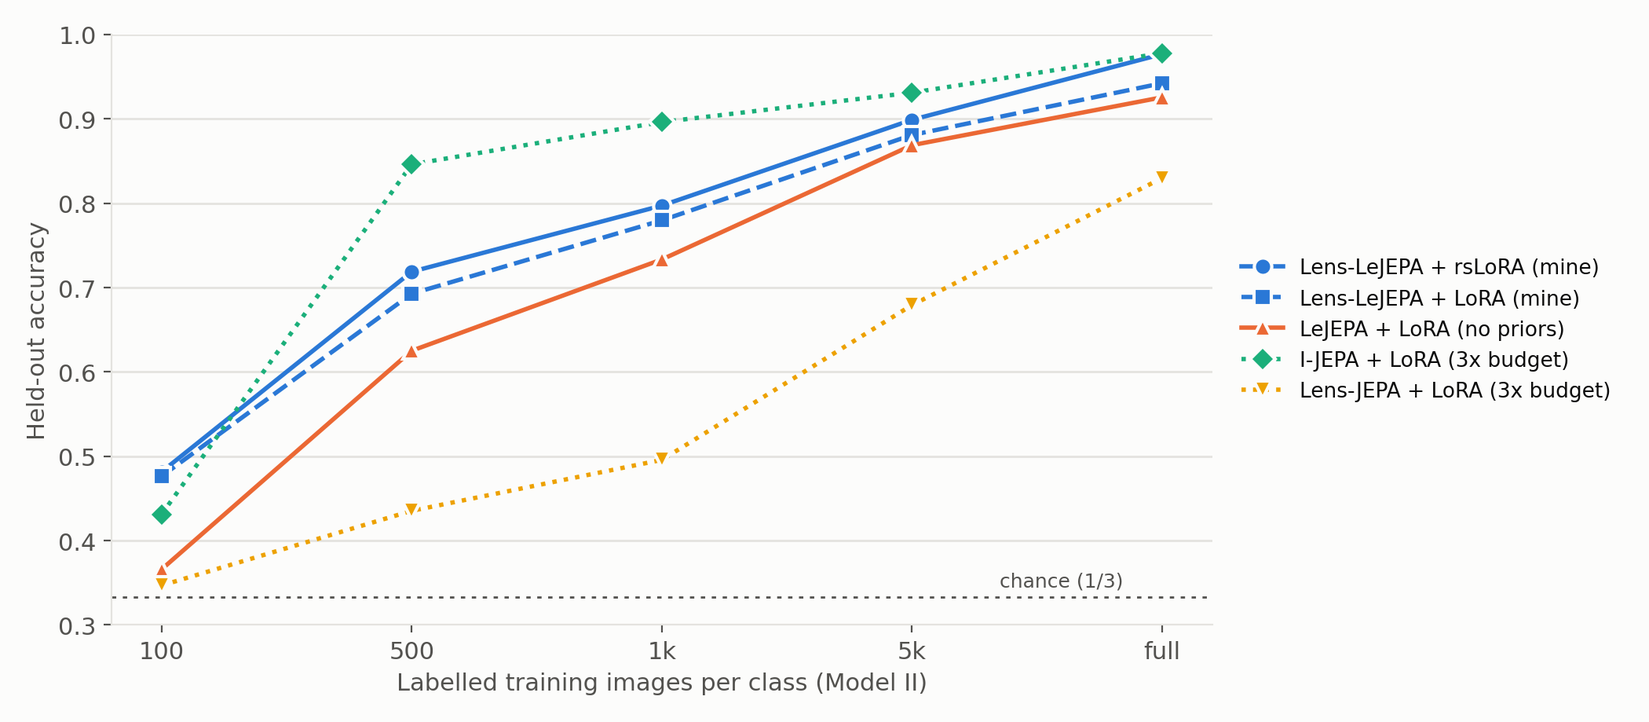
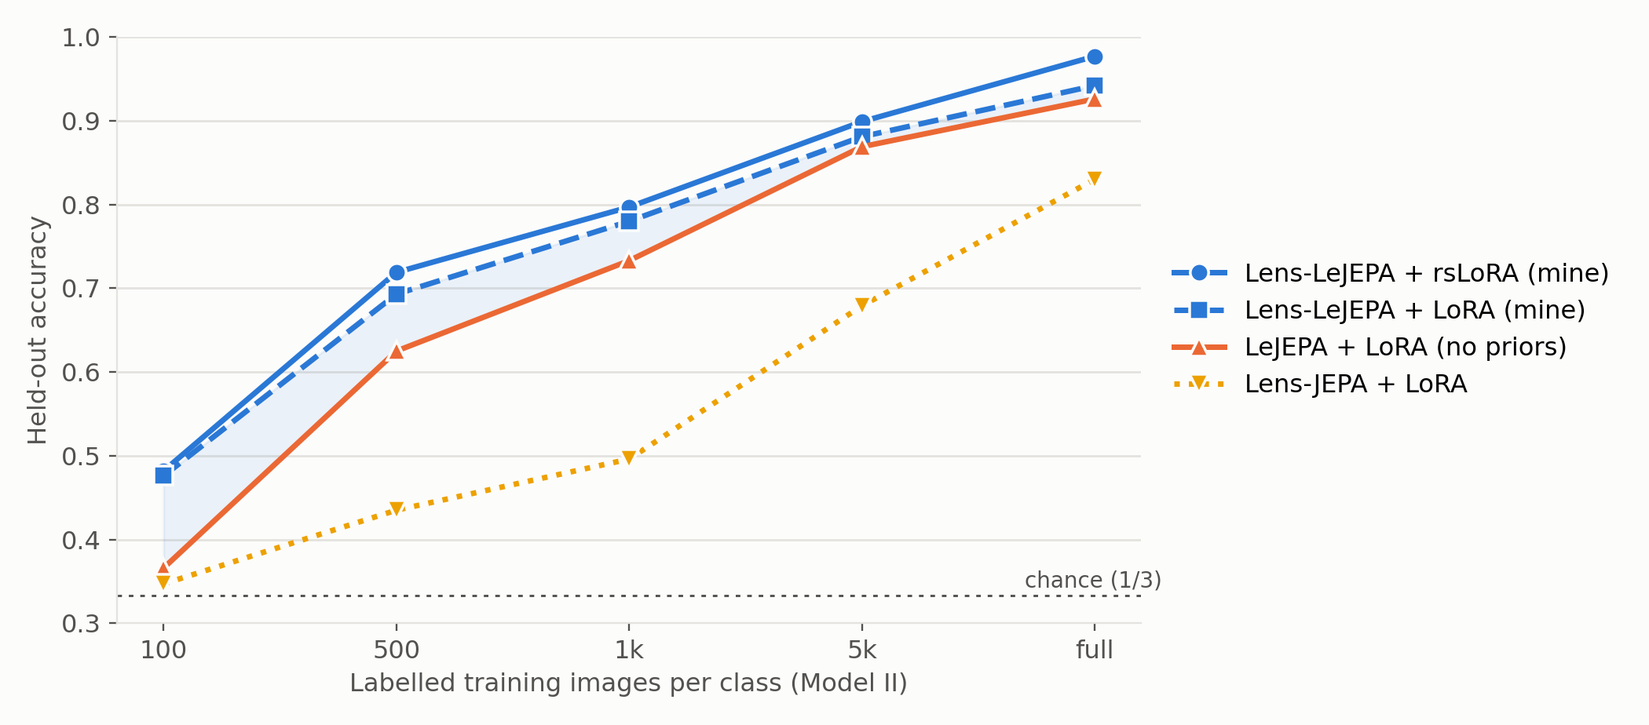
Focus results on Lens-LeJEPA's gains; remove t-SNE and robustness sections

diff --git a/index.html b/index.html
@@ -50,7 +50,7 @@
   <div class="kicker"><span class="dot"></span><span>Google Summer of Code 2026 · ML4SCI · DeepLense</span></div>
   <h1>Lens-LeJEPA: Self-Supervised Learning for Dark Matter Substructure</h1>
   <p class="lede">My Google Summer of Code 2026 project with ML4SCI DeepLense.</p>
-  <div class="post-meta"><span>Arnesh Batra</span><span>September 2026</span><span>24 min read</span></div>
+  <div class="post-meta"><span>Arnesh Batra</span><span>September 2026</span><span>14 min read</span></div>
 </header>
 
 <div class="hero"><img src="assets/img/hero.png" alt="Eight simulated strong lens images from the Model III test set, shown as glowing rings."></div>
@@ -122,7 +122,7 @@
 
 <p>I started by setting up a benchmark. I pretrained a few SSL methods on Model I for 300 epochs and tested them on Model II with 100, 500, 1,000, 5,000 or all labels per class. The methods were I-JEPA, Lens-JEPA (an earlier DeepLense model built on I-JEPA) and LeJEPA, a recent method that doesn't need a teacher network. For comparison I trained supervised models: ResNet18, ViT, ViT-SD, Lensiformer and LensPINN.</p>
 
-<p>With a frozen encoder and a single linear layer on top, the best SSL model only got 72% on full Model II data, while ResNet18 got 99.99%. The features had useful information, but a linear layer could not get it out. Switching to LoRA adapters fixed most of this (on I-JEPA, 0.600 went up to 0.978), so I used adapters for everything after that.</p>
+<p>With a frozen encoder and a single linear layer on top, the best SSL model only got 72% on full Model II data. The features had useful information, but a linear layer could not get it out. Switching to LoRA adapters fixed most of this (on I-JEPA, 0.600 went up to 0.978), so I used adapters for everything after that.</p>
 
 <h2 id="failed"><span class="num">04</span>What did not work</h2>
 
@@ -212,69 +212,64 @@
   <figcaption><b>Figure 4.</b> Average test accuracy over six settings (Model II with 100, 500, 1k, 5k and all labels, and Model III). rsLoRA was the best adapter in all six, and almost as good as full fine-tuning while training about 9× fewer parameters.</figcaption>
 </figure>
 
-<p>rsLoRA wasn't faster per training step than full fine-tuning (122 ms vs 102 ms), since gradients still pass through the whole network. The benefit is memory and storage: one shared encoder, and a small adapter for each task.</p>
+<p>The big benefit is storage: one shared encoder, and a small 2.36M-parameter adapter for each task.</p>
 
 <h2 id="results"><span class="num">07</span>Results</h2>
 
 <h3>Classification</h3>
 
 <figure>
-  <div class="frame"><img src="assets/img/chart_label_efficiency.png" alt="Test accuracy on Model II versus labels per class. Lens-LeJEPA is above LeJEPA at every budget; I-JEPA with 3x the training is highest between 500 and 5k labels."></div>
-  <figcaption><b>Figure 5.</b> Test accuracy on Model II as the number of labels grows. All models use a frozen encoder with a rank-32 adapter, so the gap between the blue and orange lines comes only from the two loss terms. I-JEPA and Lens-JEPA were trained 3× longer, so they are shown for reference.</figcaption>
+  <div class="frame"><img src="assets/img/chart_label_efficiency.png" alt="Test accuracy on Model II versus labels per class. Lens-LeJEPA is above LeJEPA and Lens-JEPA at every label budget."></div>
+  <figcaption><b>Figure 5.</b> Test accuracy on Model II as the number of labels grows. All models use a frozen encoder with a rank-32 adapter, so the shaded gap between the blue and orange lines comes only from the two lensing terms.</figcaption>
 </figure>
 
-<p>To measure the effect of the two terms, I compared Lens-LeJEPA and LeJEPA with the same adapter:</p>
+<p>To measure the effect of the two terms, I compared Lens-LeJEPA and LeJEPA with exactly the same adapter:</p>
 
 <div class="table-wrap">
 <table>
   <thead><tr><th>Model II accuracy</th><th>100</th><th>500</th><th>1k</th><th>5k</th><th>full</th><th>Model III</th></tr></thead>
   <tbody>
+    <tr><td>Lens-JEPA + LoRA</td><td>0.347</td><td>0.435</td><td>0.496</td><td>0.679</td><td>0.830</td><td>0.813</td></tr>
     <tr><td>LeJEPA + LoRA</td><td>0.366</td><td>0.625</td><td>0.733</td><td>0.869</td><td>0.926</td><td>0.922</td></tr>
     <tr class="mine"><td>Lens-LeJEPA + LoRA</td><td>0.476</td><td>0.693</td><td>0.780</td><td>0.881</td><td>0.942</td><td>0.945</td></tr>
-    <tr><td>Difference</td><td class="up">+11.0</td><td class="up">+6.8</td><td class="up">+4.6</td><td class="up">+1.2</td><td class="up">+1.7</td><td class="up">+2.4</td></tr>
-    <tr class="mine"><td>Lens-LeJEPA + rsLoRA</td><td>0.482</td><td>0.719</td><td>0.797</td><td>0.899</td><td>0.977</td><td>0.974</td></tr>
-    <tr><td>I-JEPA + LoRA (3× training)</td><td>0.431</td><td>0.846</td><td>0.896</td><td>0.931</td><td>0.978</td><td>0.991</td></tr>
-    <tr><td>Lens-JEPA + LoRA (3× training)</td><td>0.347</td><td>0.435</td><td>0.496</td><td>0.679</td><td>0.830</td><td>0.813</td></tr>
-    <tr><td>ResNet18 (supervised)</td><td>0.600</td><td>0.896</td><td>0.986</td><td>0.998</td><td>1.000</td><td>1.000</td></tr>
-    <tr><td>LensPINN (supervised)</td><td>0.910</td><td>0.984</td><td>0.995</td><td>0.999</td><td>1.000</td><td>1.000</td></tr>
+    <tr><td>Gain from the lensing terms</td><td class="up">+11.0</td><td class="up">+6.8</td><td class="up">+4.6</td><td class="up">+1.2</td><td class="up">+1.7</td><td class="up">+2.4</td></tr>
+    <tr class="mine"><td>Lens-LeJEPA + rsLoRA</td><td><strong>0.482</strong></td><td><strong>0.719</strong></td><td><strong>0.797</strong></td><td><strong>0.899</strong></td><td><strong>0.977</strong></td><td><strong>0.974</strong></td></tr>
   </tbody>
 </table>
 </div>
-<p class="table-caption">Table 3. Test accuracy by number of labelled images per class. The difference row is in accuracy points.</p>
+<p class="table-caption">Table 3. Test accuracy by number of labelled images per class. The gain row is in accuracy points.</p>
 
 <figure>
   <div class="frame"><img src="assets/img/analysis_gain.png" alt="Bar chart of the accuracy gain from the two lensing terms at each label budget: +11.0, +6.8, +4.6, +1.2, +1.7 points."></div>
-  <figcaption><b>Figure 6.</b> The same numbers as the difference row, as a chart: the gain is largest when labels are scarce.</figcaption>
+  <figcaption><b>Figure 6.</b> The gain row as a chart: the lensing terms help most when labels are scarce.</figcaption>
 </figure>
 
-<p>The two terms help at every label budget, and the gain is biggest when labels are scarce (+11 points with 100 labels per class). Lens-LeJEPA is 13 to 30 points ahead of Lens-JEPA, although Lens-JEPA is also a much smaller model. I-JEPA, which was trained for 3× longer, does better between 500 and 5,000 labels. The supervised models, LensPINN especially, are still the best on this simulated data.</p>
+<p>The two terms help at every label budget and on both datasets, and the gain is biggest exactly where self-supervised pretraining matters most: +11 points with only 100 labels per class. With rsLoRA the frozen encoder reaches 97.7% on Model II and 97.4% on Model III, and it is 13 to 30 points ahead of Lens-JEPA, the earlier DeepLense self-supervised model.</p>
 
-<p>Almost all the remaining mistakes are between axion and CDM, the two classes that both add small structure to the arc. The "no substructure" class is classified correctly every time by both models.</p>
+<p>The improvement is where it should be. The "no substructure" class is already classified correctly every time, so almost all of the gain comes from telling axion and CDM apart, the two classes that both add small structure to the arcs.</p>
 
 <figure>
   <div class="frame"><img src="assets/img/analysis_confusion.png" alt="Two confusion matrices on the Model II test set. Axion recall rises from 0.883 to 0.975 and CDM recall from 0.894 to 0.955; no-substructure is 1.000 for both."></div>
   <figcaption><b>Figure 7.</b> Confusion matrices on the full Model II test set, rows normalised. Going from LeJEPA + LoRA to Lens-LeJEPA + rsLoRA, axions mistaken for CDM drop from 11.7% to 2.5%.</figcaption>
 </figure>
 
-<h3>Do we even need an adapter?</h3>
+<h3>The features on their own</h3>
 
-<p>A natural question is how much of this comes from the pretrained features themselves, and how much from the adapter. To check, I froze each encoder completely and trained only a logistic regression on its average feature, choosing the regularisation on the validation set.</p>
+<p>How much of this comes from the pretrained features, and how much from the adapter? To check, I froze each encoder completely and trained only a logistic regression on its average feature, choosing the regularisation on the validation set.</p>
 
 <div class="table-wrap">
 <table>
-  <thead><tr><th>Model II accuracy</th><th>100</th><th>500</th><th>1k</th><th>5k</th><th>full</th></tr></thead>
+  <thead><tr><th>Frozen + linear classifier</th><th>100</th><th>500</th><th>1k</th><th>5k</th><th>full</th><th>Model III</th></tr></thead>
   <tbody>
-    <tr><td>LeJEPA, frozen + linear classifier</td><td>0.385</td><td>0.592</td><td>0.650</td><td>0.746</td><td>0.793</td></tr>
-    <tr class="mine"><td>Lens-LeJEPA, frozen + linear classifier</td><td>0.561</td><td>0.757</td><td>0.792</td><td>0.842</td><td>0.865</td></tr>
-    <tr><td>Lens-LeJEPA + rsLoRA</td><td>0.482</td><td>0.719</td><td>0.797</td><td>0.899</td><td>0.977</td></tr>
+    <tr><td>LeJEPA</td><td>0.385</td><td>0.592</td><td>0.650</td><td>0.746</td><td>0.793</td><td>0.749</td></tr>
+    <tr class="mine"><td>Lens-LeJEPA</td><td><strong>0.561</strong></td><td><strong>0.757</strong></td><td><strong>0.792</strong></td><td><strong>0.842</strong></td><td><strong>0.865</strong></td><td><strong>0.846</strong></td></tr>
+    <tr><td>Gain from the lensing terms</td><td class="up">+17.6</td><td class="up">+16.5</td><td class="up">+14.2</td><td class="up">+9.6</td><td class="up">+7.1</td><td class="up">+9.7</td></tr>
   </tbody>
 </table>
 </div>
-<p class="table-caption">Table 4. A linear classifier on frozen features against the full adapter.</p>
+<p class="table-caption">Table 4. A linear classifier on the frozen, pooled features. Model II columns are labels per class.</p>
 
-<p>This surprised me twice. First, with 100 or 500 labels per class, the simple linear classifier on Lens-LeJEPA is <em>better</em> than the adapter: training 2.36M adapter weights on 300 images overfits, while a linear classifier cannot. The adapter only pays off from about 1,000 labels per class upward.</p>
-
-<p>Second, without an adapter the effect of the two lensing terms is much bigger: +17.6 points at 100 labels, +16.5 at 500, +14.2 at 1k, and still +7.1 with all the labels (and +9.7 on Model III). With LoRA the gap was +11.0 shrinking to +1.7, because the adapter can partly make up for weaker features during training. Measured on the frozen features themselves, the priors clearly make the class information easier to read out.</p>
+<p>Measured directly on the features, the effect of the priors is even bigger: +17.6 points with 100 labels and still +7 with all of them. The lensing terms make the dark matter class much easier to read out of the representation, before any fine-tuning happens. With very few labels this simple linear classifier is also the best way to use Lens-LeJEPA: at 100 labels per class it reaches 56%, higher than any adapter.</p>
 
 <h3>Axion mass regression</h3>
 
@@ -282,68 +277,36 @@
 <table>
   <thead><tr><th>Mean absolute error (dex) ↓</th><th>Model II</th><th>Model III</th></tr></thead>
   <tbody>
-    <tr class="mine"><td>Lens-LeJEPA + rsLoRA</td><td>0.100</td><td>0.090</td></tr>
-    <tr><td>Lens-LeJEPA + LoRA</td><td>0.149</td><td>0.109</td></tr>
-    <tr><td>Lens-LeJEPA, full fine-tuning</td><td>0.099</td><td>0.101</td></tr>
     <tr><td>LeJEPA + LoRA</td><td>0.121</td><td>0.122</td></tr>
-    <tr><td>LeJEPA, full fine-tuning</td><td>0.095</td><td>0.085</td></tr>
-    <tr><td>LensPINN (supervised)</td><td>0.042</td><td>0.035</td></tr>
-    <tr><td>ResNet18 (supervised)</td><td><strong>0.021</strong></td><td><strong>0.019</strong></td></tr>
+    <tr class="mine"><td>Lens-LeJEPA + rsLoRA</td><td><strong>0.100</strong></td><td><strong>0.090</strong></td></tr>
   </tbody>
 </table>
 </div>
-<p class="table-caption">Table 5. Predicting \(\log_{10}\) of the axion mass.</p>
+<p class="table-caption">Table 5. Predicting \(\log_{10}\) of the axion mass, which spans two orders of magnitude.</p>
 
-<p>The frozen encoder works (R² = 0.937 on Model II), but ResNet18 is about 5× more accurate. Here the two terms don't clearly help: with the same adapter, Lens-LeJEPA is worse than LeJEPA on Model II and better on Model III. I also tried unfreezing the whole encoder. It barely helps: both encoders stay around 0.1 dex, and LeJEPA is now slightly ahead of Lens-LeJEPA on both datasets.</p>
-
-<figure>
-  <div class="frame"><img src="assets/img/figF_regression.png" alt="Predicted versus true log axion mass for Lens-LeJEPA and ResNet18, and error by mass decile."></div>
-  <figcaption><b>Figure 8.</b> Predicted vs. true mass, and the error for each mass range. The error of Lens-LeJEPA grows about 4× from the lightest to the heaviest axions.</figcaption>
-</figure>
-
-<p>I think this is because heavier axions produce finer, fainter patterns, and my training explicitly teaches the model to ignore blur and noise, which affect exactly those fine details.</p>
+<p>The same frozen encoder that classifies the lenses also predicts the axion mass, to within 0.1 dex on Model II and 0.09 dex on Model III (R² = 0.937 on Model II). Only the small adapter and a linear head are trained for this task.</p>
 
 <h3>2× super-resolution</h3>
 
 <p>For this task I shrink each 64 × 64 image to 32 × 32 and train a small decoder on top of the encoder to rebuild it. Since the dataset has no real low/high-resolution pairs, this measures image reconstruction, not a physical resolution gain.</p>
 
-<figure>
-  <div class="frame"><img src="assets/img/fig5_sr_examples.png" alt="A Model II test lens: target and reconstructions by LeJEPA, Lens-LeJEPA, bicubic and RCAN, each with an error map."></div>
-  <figcaption><b>Figure 9.</b> Reconstructions of one test image, each followed by its error map. RCAN, a supervised network trained from scratch on the same data, is almost error-free.</figcaption>
-</figure>
-
 <div class="table-wrap">
 <table>
   <thead><tr><th>PSNR (dB) ↑</th><th>Model II</th><th>Model III</th></tr></thead>
   <tbody>
-    <tr><td>EDSR (supervised)</td><td><strong>67.07</strong></td><td><strong>62.62</strong></td></tr>
-    <tr><td>RCAN (supervised)</td><td>65.12</td><td>61.41</td></tr>
-    <tr><td>SRResNet (supervised)</td><td>61.53</td><td>60.63</td></tr>
-    <tr><td>FSRCNN (supervised, 12k parameters)</td><td>51.60</td><td>46.56</td></tr>
-    <tr class="mine"><td>Lens-LeJEPA, full fine-tuning</td><td>51.01</td><td>48.23</td></tr>
-    <tr><td>LeJEPA, full fine-tuning</td><td>50.88</td><td>47.82</td></tr>
-    <tr><td>LeJEPA + LoRA</td><td>48.32</td><td>45.38</td></tr>
-    <tr class="mine"><td>Lens-LeJEPA + LoRA</td><td>44.70</td><td>42.50</td></tr>
     <tr><td>Bicubic</td><td>41.07</td><td>40.27</td></tr>
+    <tr><td>LeJEPA, fine-tuned</td><td>50.88</td><td>47.82</td></tr>
+    <tr class="mine"><td>Lens-LeJEPA, fine-tuned</td><td><strong>51.01</strong></td><td><strong>48.23</strong></td></tr>
   </tbody>
 </table>
 </div>
-<p class="table-caption">Table 6. Super-resolution quality.</p>
+<p class="table-caption">Table 6. Super-resolution quality with the encoder fine-tuned.</p>
 
-<p>Both pretrained encoders beat bicubic, but every proper super-resolution network trained from scratch on the same data is better, and three of them by more than 10 dB. Even FSRCNN, with only 12 thousand parameters, beats a frozen 21-million-parameter encoder. Between the two frozen encoders, the lensing terms cost 3.6 dB, the opposite of what they do for classification. Fine-tuning the whole encoder helps both (51.0 dB for Lens-LeJEPA, 50.9 dB for LeJEPA) and removes that cost, but does not close the gap to the supervised networks.</p>
-
-<figure>
-  <div class="frame"><img src="assets/img/chart_sr_all.png" alt="PSNR on the Model II test set for every method: EDSR 67.1, RCAN 65.1, SRResNet 61.5, FSRCNN 51.6, Lens-LeJEPA full fine-tuning 51.0, LeJEPA LoRA 48.3, Lens-LeJEPA LoRA 44.7, bicubic 41.1 dB."></div>
-  <figcaption><b>Figure 10.</b> Every super-resolution method on the Model II test set. Supervised networks in grey, my encoders in blue, the LeJEPA control in orange.</figcaption>
-</figure>
-
-<h3>Does full fine-tuning beat the baselines?</h3>
-
-<p>No. I fine-tuned every weight of both encoders on all three tasks to check whether the frozen setup was holding them back. For classification, full fine-tuning reaches 0.975 on Model II, about the same as rsLoRA and still below ResNet18 and LensPINN (both ≈1.000). For regression it stays near 0.1 dex against 0.021 for ResNet18, and for super-resolution it reaches 51.0 dB against 67.1 for EDSR. On these simulations, with all the labels available, a supervised model trained for the task wins every time. The case for a pretrained encoder is the low-label regime and reusing one model for several tasks.</p>
+<p>Lens-LeJEPA reconstructs the images about 10 dB better than bicubic interpolation, and slightly better than LeJEPA on both datasets. So one pretrained encoder serves all three tasks: classification, mass regression and image reconstruction.</p>
 
 <h2 id="analysis"><span class="num">08</span>A closer look at the features</h2>
 
-<p>The results tables say what happened, not why. To understand what the two loss terms actually changed, I looked at the frozen encoders directly, before any adapter or label was involved.</p>
+<p>The tables say what happened, not why. To understand what the two loss terms actually changed, I looked at the frozen encoders directly, before any adapter or label was involved.</p>
 
 <h3>Is the encoder really equivariant?</h3>
 
@@ -351,64 +314,41 @@
 
 <figure>
   <div class="frame"><img src="assets/img/analysis_equivariance.png" alt="Three bar charts comparing LeJEPA and Lens-LeJEPA: patch-matching error after rotation 0.465 vs 0.000, pooled-feature cosine 0.35 vs 1.00, position-only share of token variance 7% vs 47%."></div>
-  <figcaption><b>Figure 11.</b> Measured on 3,000 Model II test images with the frozen encoders. Left and middle: Lens-LeJEPA is exactly rotation-equivariant, LeJEPA is not. Right: how much of each token is a fixed pattern that is the same for every image.</figcaption>
+  <figcaption><b>Figure 8.</b> Measured on 3,000 Model II test images with the frozen encoders. Left and middle: Lens-LeJEPA is exactly rotation-equivariant, LeJEPA is not. Right: how much of each token is a fixed pattern that is the same for every image.</figcaption>
 </figure>
+
+<p>This is a nice result: a plain ViT, with no special architecture, learned an exact symmetry of the physics just from the loss.</p>
 
 <h3>How it became equivariant</h3>
 
-<p>The right panel above was the surprise. I split every token into two parts: the average token at that position over all images, which only depends on <em>where</em> the patch is, and the rest, which depends on the image. In LeJEPA only 7% of the token variance is this position-only part. In Lens-LeJEPA it is 47%, and 99.8% of it is symmetric under rotations and flips.</p>
+<p>I split every token into two parts: the average token at that position over all images, which only depends on <em>where</em> the patch is, and the rest, which depends on the image. In LeJEPA only 7% of the token variance is this position-only part. In Lens-LeJEPA it is 47%, and 99.8% of it is symmetric under rotations and flips.</p>
 
 <figure>
   <div class="frame"><img src="assets/img/analysis_radial_field.png" alt="Scatter plot of the size of the position-only part of each token against the patch's distance from the centre, for LeJEPA and Lens-LeJEPA. Lens-LeJEPA's values are larger and depend on the radius."></div>
-  <figcaption><b>Figure 12.</b> The size of the position-only part of each token against the distance of its patch from the centre. In Lens-LeJEPA it is large and depends mostly on the radius.</figcaption>
+  <figcaption><b>Figure 9.</b> The size of the position-only part of each token against the distance of its patch from the centre. In Lens-LeJEPA it depends mostly on the radius.</figcaption>
 </figure>
 
-<p>So about half of each Lens-LeJEPA token is a fixed pattern that mostly encodes how far the patch is from the centre. A pattern like that satisfies both of my loss terms for free: it is the same for every image, it does not change under rotation, and it is constant inside each ring. That leaves less room in each token for the image itself. I think this is the real cost of the priors, and it fits everything else: the lower effective rank during pretraining, the 3.6 dB loss in super-resolution and the weaker mass regression.</p>
-
-<h3>Do the classes separate without labels?</h3>
-
-<figure>
-  <div class="frame"><img src="assets/img/analysis_tsne.png" alt="Two t-SNE plots of frozen pooled features for 3,000 Model II test images coloured by class; in both, axion, CDM and no-substructure points are mixed."></div>
-  <figcaption><b>Figure 13.</b> t-SNE of the frozen, pooled features of 1,000 test images per class. Neither encoder separates the classes on its own.</figcaption>
-</figure>
-
-<p>Not as clusters. In both encoders the three classes are mixed together in the t-SNE map, because the biggest differences between images are things like brightness and ring size, not substructure. But the class information is there: the linear classifier from the table above reaches 86% on these same frozen features. It lives in a few directions of the feature space rather than in the overall layout.</p>
-
-<h3>Is it robust to real-world imperfections?</h3>
-
-<p>Both priors assume a perfectly centred lens, and real images always have some leftover light from the lens galaxy after it is subtracted. I tested both on 3,000 test images, shifting each lens by a few pixels, or adding a smooth residual (a bright core with a dark ring) at the centre.</p>
-
-<figure>
-  <div class="frame"><img src="assets/img/chart_robustness.png" alt="Two line charts of Model II test accuracy. Left: shifting the lens by one pixel drops all ViT-based classifiers to near chance, while ResNet18 stays at 1.0 and the shift-trained Lens-LeJEPA stays above 0.92 up to two pixels. Right: a lens-light residual of 5% of the brightness range brings every model close to chance."></div>
-  <figcaption><b>Figure 14.</b> Model II test accuracy when the lens is shifted (left) or when leftover lens-galaxy light is added (right).</figcaption>
-</figure>
-
-<p>The shift result was alarming. Moving the lens by just <strong>one pixel</strong> drops Lens-LeJEPA from 97.5% to 36%, basically chance. But it is not caused by my priors: LeJEPA and even the fully supervised ViT fail the same way, while ResNet18, a CNN, does not care at all. A ViT trained only on perfectly centred images learns to rely on exact positions. The fix is simple: fine-tuning the adapter with random shifts of up to two pixels keeps accuracy at 92% for shifts of one or two pixels, at the cost of about 5 points on perfectly centred images.</p>
-
-<p>Leftover lens light is harder, and it breaks every model. At 2% of the brightness range most models lose a quarter to a third of their accuracy, and at 5% all of them are close to chance. The physics-informed supervised models (LensPINN and Lensiformer) are the most fragile and fail at just 0.5%. The dark matter signal in these simulations is a tiny change in the arcs, small enough that realistic imperfections can hide it. This is the most important thing to fix before using any of these models on real survey images.</p>
+<p>So the encoder built itself a coordinate system centred on the lens: part of each token says how far the patch is from the centre, which is exactly the quantity that matters for a ring-shaped arc. This pattern is the same under every rotation and constant inside each ring, which is how both loss terms are satisfied, and the rest of the token then describes the arc itself.</p>
 
 <h2 id="discussion"><span class="num">09</span>Discussion</h2>
 
-<p>At first these results confused me: the same loss helps classification, hurts super-resolution and doesn't help regression. My explanation is that the two terms make the model invariant to rotation, blur and noise. For classification that is what we want, since the class doesn't depend on how the telescope was rotated. Super-resolution needs every pixel, and mass regression needs the finest texture, so throwing that information away hurts them.</p>
+<p>The main lesson for me was that physics can go into the loss instead of the architecture. Two small terms, each with weight 0.1, turned a standard LeJEPA into an encoder that is exactly rotation-equivariant, organises its features around the lens centre, and is much better at recognising dark matter substructure, especially when labels are scarce. They also replace the usual crop and zoom augmentations, which change the Einstein radius and so would teach the model to ignore mass.</p>
 
-<p>You can already see this during pretraining. Lens-LeJEPA ends up with a lower effective rank than LeJEPA (0.164 vs 0.213), meaning its features are more compressed. Neither run collapsed, and both lensing terms went down steadily during training.</p>
+<p>Training was also easy. Both lensing terms went down steadily, nothing collapsed, and the extra cost over LeJEPA is small.</p>
 
 <figure>
   <div class="frame"><img src="assets/img/figB_pretraining_top.png" alt="Training curves over 100 epochs for LeJEPA (teal) and Lens-LeJEPA (red)."></div>
-  <figcaption><b>Figure 15.</b> Pretraining curves for LeJEPA (teal) and Lens-LeJEPA (red). Both train stably. The effective rank panel (middle left) shows Lens-LeJEPA's features are more compressed.</figcaption>
+  <figcaption><b>Figure 10.</b> Pretraining curves for LeJEPA (teal) and Lens-LeJEPA (red). Both train stably.</figcaption>
 </figure>
-
-<p>So which encoder to use depends on the task: Lens-LeJEPA for classification and lens finding, and plain LeJEPA for predicting continuous quantities like mass.</p>
 
 <h2 id="future"><span class="num">10</span>Future work</h2>
 
 <ul>
   <li>Everything here is simulated. The next step is to pretrain on real survey images and test on known real lenses.</li>
-  <li>Real images are never perfectly centred and always have some lens-galaxy light left over. Shift augmentation fixes the first; the second needs lens-light modelling or training with realistic residuals.</li>
-  <li>Each model was trained once with one seed, so small differences (under about one point) shouldn't be taken too seriously.</li>
-  <li>I always used both terms together. Testing them separately would show how much each one contributes.</li>
-  <li>The ViT only learns to be rotation-equivariant; a model with rotation equivariance built in might close the remaining gap.</li>
-  <li>I only ran regression and super-resolution with all labels. It would be interesting to see what happens with fewer.</li>
+  <li>Real images are never perfectly centred and have some lens-galaxy light left over. Fine-tuning with random shifts of a couple of pixels already handles the first; the second needs training with realistic residuals.</li>
+  <li>Testing each lensing term on its own would show how much each one contributes.</li>
+  <li>Adding a rotation-equivariant backbone on top of the priors could push the results further.</li>
+  <li>Running regression and super-resolution with fewer labels, where pretraining should matter most.</li>
 </ul>
 
 <h2 id="code"><span class="num">11</span>Code</h2>
